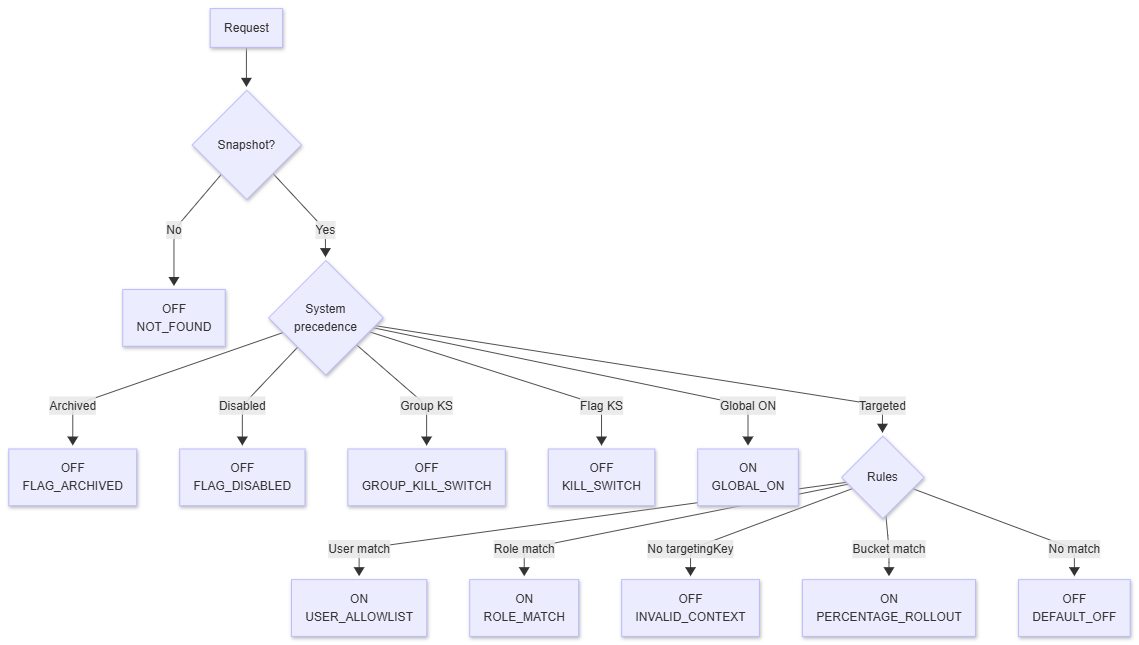
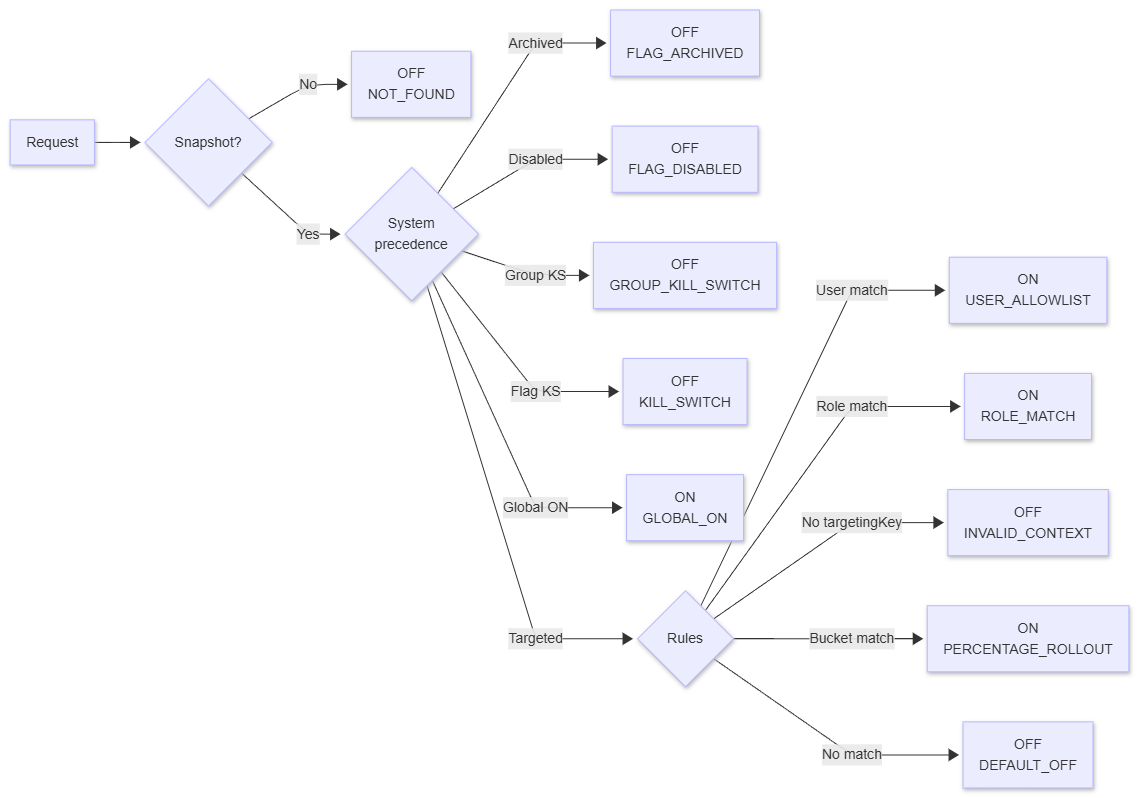
Update flowchart direction and replace corresponding image for clarity

diff --git a/Images/mermaid/Thứ tự ưu tiên khi đánh giá.md b/Images/mermaid/Thứ tự ưu tiên khi đánh giá.md
@@ -1,5 +1,5 @@
 ```mermaid
-flowchart TD
+flowchart LR
     A[Request] --> B{Snapshot?}
     B -- No --> N[OFF<br/>NOT_FOUND]
     B -- Yes --> C{System<br/>precedence}
